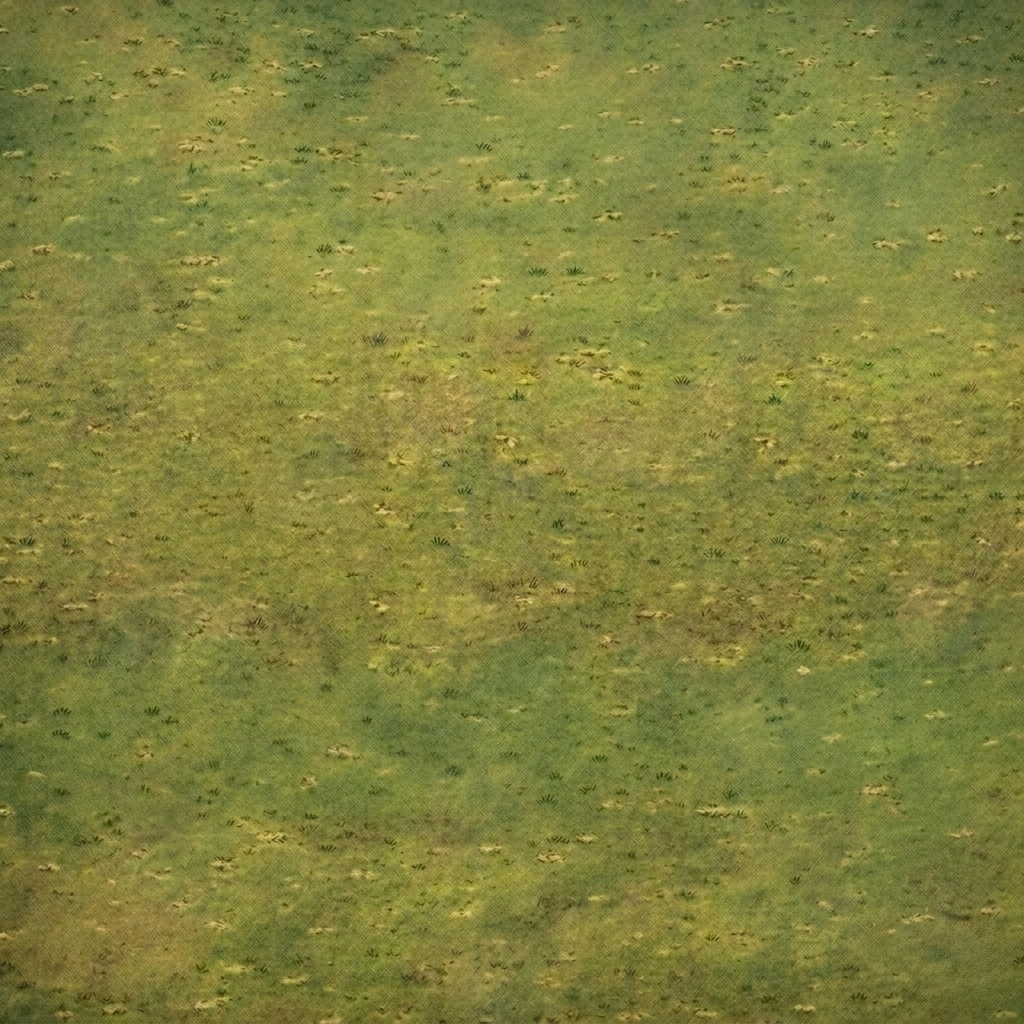
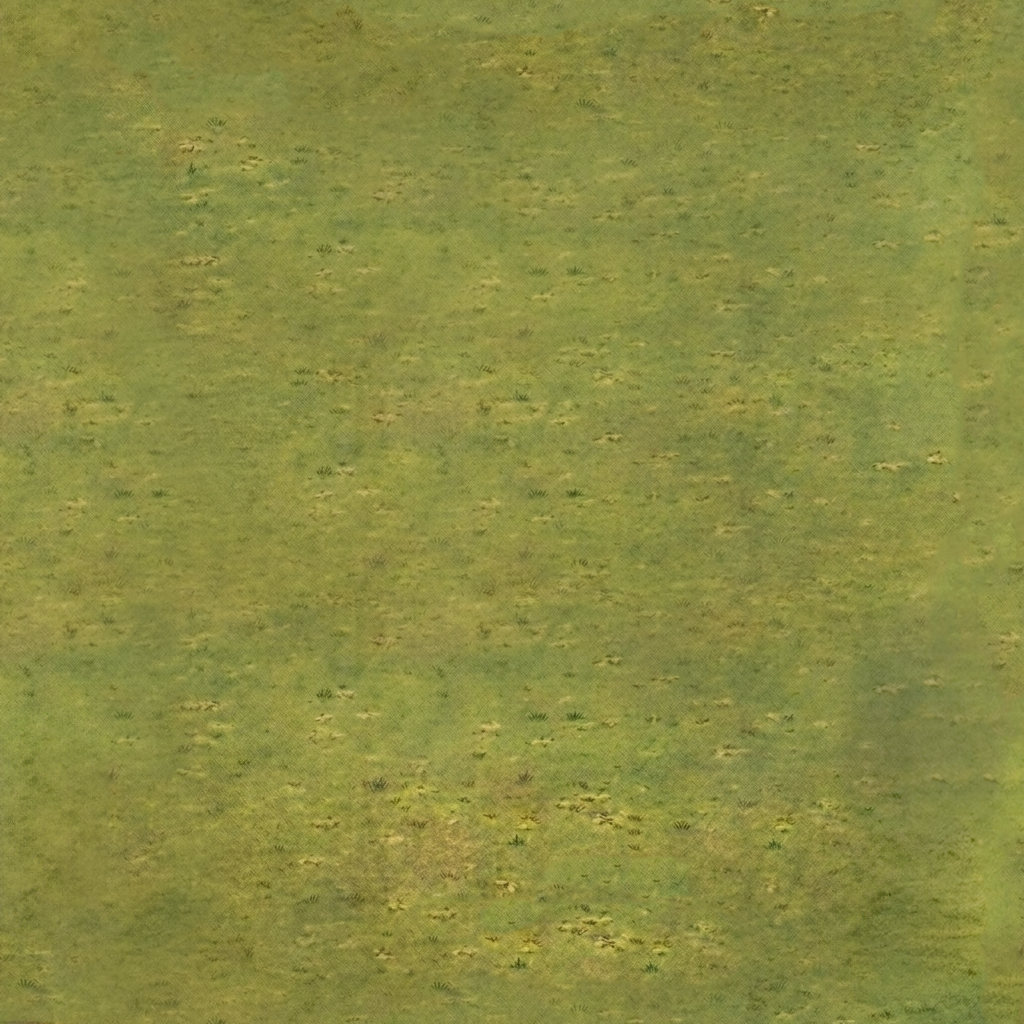
chore(lint): _prefix unused args and useState setters
12 mechanical fixes — rename to _ prefix per repo convention
(argsIgnorePattern/varsIgnorePattern: ^_), and drop 2 stray imports
(DonjonButton in FocusRingPage, DieFace in MapPage).

Net: 25 -> 13 warnings. Remaining 13 are dead helpers and dead local
vars — kept for human review (may be WIP code).

Changed region(s): [[0.0, 0.0, 1.0, 1.0], [0.5625, 0.0938, 0.5938, 0.125]]

diff --git a/src/pages/SnippetsPage.jsx b/src/pages/SnippetsPage.jsx
@@ -118,8 +118,8 @@ function Snippet({ label, preview, code, previewStyle }) {
 /* ════════════════════════════════════════════════════════════════════════ */
 
 export default function SnippetsPage() {
-  const [hp, setHp]             = useState(72)
-  const [mana, setMana]         = useState(45)
+  const [hp, _setHp]            = useState(72)
+  const [mana, _setMana]        = useState(45)
   const [volume, setVolume]     = useState(70)
   const [sfx, setSfx]           = useState(true)
   const [lang, setLang]         = useState('cs')

diff --git a/src/lib/donjon/DonjonButtonGroup.jsx b/src/lib/donjon/DonjonButtonGroup.jsx
@@ -11,7 +11,7 @@ const sizeMap = {
 }
 
 export default function DonjonButtonGroup({
-  variant = 'menu',
+  variant: _variant = 'menu',
   ornament = 'decorated',
   size = 'md',
   dividers = false,

diff --git a/src/lib/donjon/DonjonSlider.jsx b/src/lib/donjon/DonjonSlider.jsx
@@ -43,7 +43,7 @@ function resolveTicks(ticks, min, max) {
 }
 
 /* Thumb rendering podle shape — variant-aware */
-function Thumb({ pct, shape, size: thumbD, disabled, v }) {
+function Thumb({ pct, shape, size: thumbD, disabled: _disabled, v }) {
   const baseStyle = {
     position: 'absolute',
     left: `${pct}%`,

diff --git a/src/lib/tkajui/ButtonGroup.jsx b/src/lib/tkajui/ButtonGroup.jsx
@@ -13,7 +13,7 @@ const sizeMap = {
  * Variants: menu | tabs. Clean UI palette.
  */
 export default function ButtonGroup({
-  variant = 'menu',
+  variant: _variant = 'menu',
   size = 'md',
   dividers = false,
   items = [],

diff --git a/src/pages/FloatFeedbackPage.jsx b/src/pages/FloatFeedbackPage.jsx
@@ -137,7 +137,7 @@ function MultiDemo() {
       </div>
 
       <div className="flex flex-wrap gap-2">
-        {VARIANTS.map(({ variant, text, color, label }) => (
+        {VARIANTS.map(({ variant, text, color, label: _label }) => (
           <TriggerButton
             key={variant}
             label={`${text}`}

diff --git a/src/pages/HudPage.jsx b/src/pages/HudPage.jsx
@@ -97,7 +97,7 @@ function VPCounter({ players }) {
 }
 
 /* ── Action bar ── */
-function ActionBar({ actions, activePlayer }) {
+function ActionBar({ actions, activePlayer: _activePlayer }) {
   return (
     <div style={{
       display: 'flex', gap: 6, padding: '8px 12px',

diff --git a/src/pages/InteractionStatesPage.jsx b/src/pages/InteractionStatesPage.jsx
@@ -18,7 +18,7 @@ import {
    Sdílená stavová matice (stejná pro obě knihovny)
    ══════════════════════════════════════════════════════════════════════════ */
 
-function StateRow({ state, required, description, components, accentColor = goldMid, textColor = textCool, bg = bg0, border = `${goldDim}18`, faintColor = textDeep }) {
+function StateRow({ state, required, description, components, accentColor = goldMid, textColor = textCool, bg: _bg = bg0, border = `${goldDim}18`, faintColor = textDeep }) {
   const reqColor = required ? successColor : textColor
   return (
     <div style={{

diff --git a/src/pages/PlayerPanelPage.jsx b/src/pages/PlayerPanelPage.jsx
@@ -46,7 +46,7 @@ const PLAYERS = [
 export default function PlayerPanelPage() {
   const [activeIdx, setActiveIdx] = useState(0)
   const [hpValues, setHpValues]   = useState(PLAYERS.map(p => p.hp))
-  const [eliminated, setEliminated] = useState([false, false, false, false])
+  const [eliminated, _setEliminated] = useState([false, false, false, false])
 
   const dealDamage = (i) => {
     const dmg = Math.floor(Math.random() * 20 + 8)

diff --git a/src/pages/TextSelectionPage.jsx b/src/pages/TextSelectionPage.jsx
@@ -81,7 +81,7 @@ export default function TextSelectionPage() {
               { ctx: 'Code blok (CodeBlock)',  bg: 'rgba(64,128,192,0.40)', color: textActive,   note: 'Modrý — kód má vlastní kontext' },
               { ctx: 'Chybový text',          bg: 'rgba(192,64,64,0.35)',  color: textActive,   note: 'Červený — v error stavu (vzácné)' },
               { ctx: 'no-select (UI prvky)',  bg: 'n/a',                   color: 'n/a',        note: 'user-select: none — tlačítka, labely, badge' },
-            ].map(({ ctx, bg, color, note }) => (
+            ].map(({ ctx, bg, color: _color, note }) => (
               <div key={ctx} style={{ display: 'grid', gridTemplateColumns: '180px 200px 1fr', gap: 10, padding: '8px 12px', background: bg0, border: `1px solid ${goldDim}18`, borderRadius: 3 }}>
                 <span style={{ fontSize: '0.8125rem', color: textCool }}>{ctx}</span>
                 <code style={{ fontSize: '0.6875rem', color: goldMid, lineHeight: 1.5 }}>{bg}</code>

diff --git a/src/pages/FocusRingPage.jsx b/src/pages/FocusRingPage.jsx
@@ -1,5 +1,4 @@
 import { useLibVariant, ShowcasePage, Section, Preview, CodeBlock } from '../styleguide/ShowcasePage'
-import DonjonButton from '../lib/donjon/DonjonButton'
 import * as T from '../lib/tkajui/tokens'
 import * as D from '../lib/donjon/tokens'
 import { failColor, textCool, textDeep } from '../lib/donjon/tokens'

diff --git a/src/pages/MapPage.jsx b/src/pages/MapPage.jsx
@@ -1,7 +1,6 @@
 import { useState } from 'react'
 import { bg4, bgDeep, borderDefault, borderMuted, failColor, goldDim, goldMid, textFaint } from '../lib/donjon/tokens'
 import HexTile from '../lib/donjon/HexTile'
-import DieFace from '../lib/donjon/DieFace'
 import DonjonCard from '../lib/donjon/DonjonCard'
 import DonjonBadge from '../lib/donjon/DonjonBadge'
 import { ShowcasePage, Section, Preview } from '../styleguide/ShowcasePage'